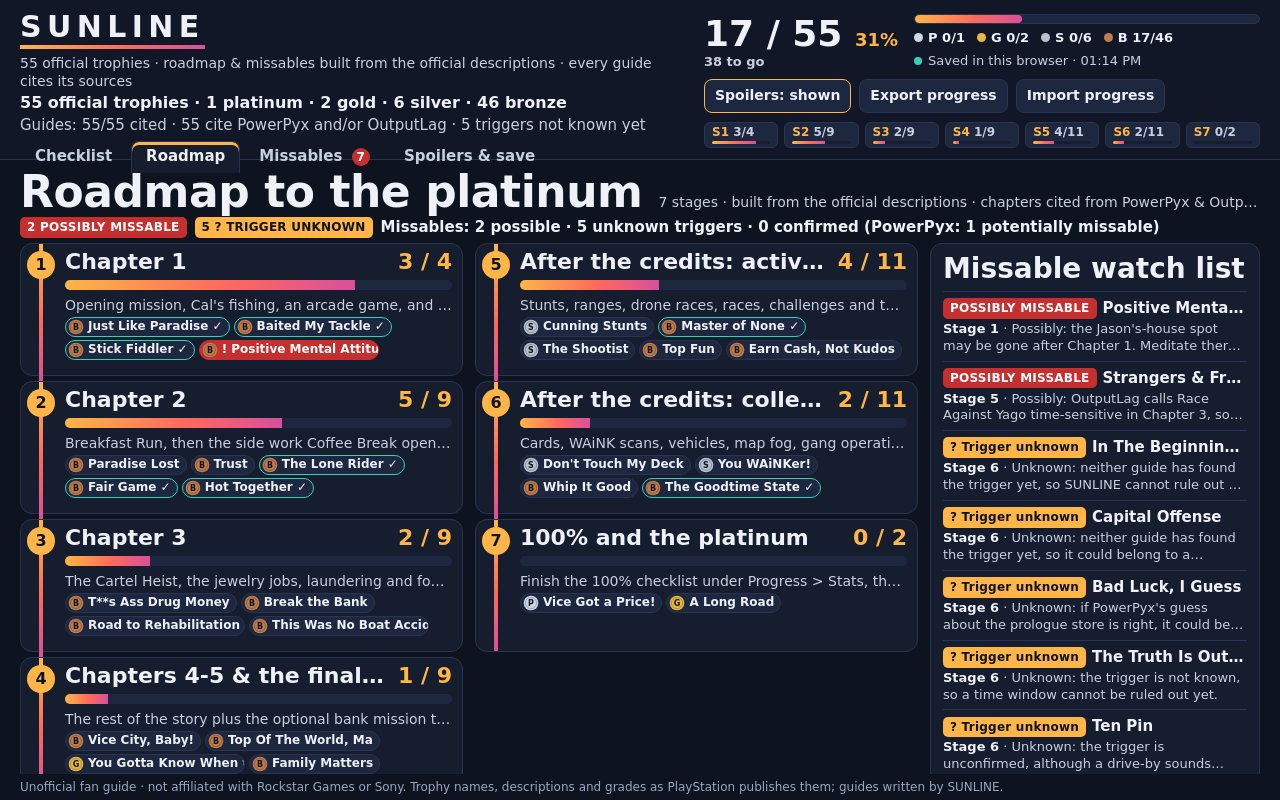
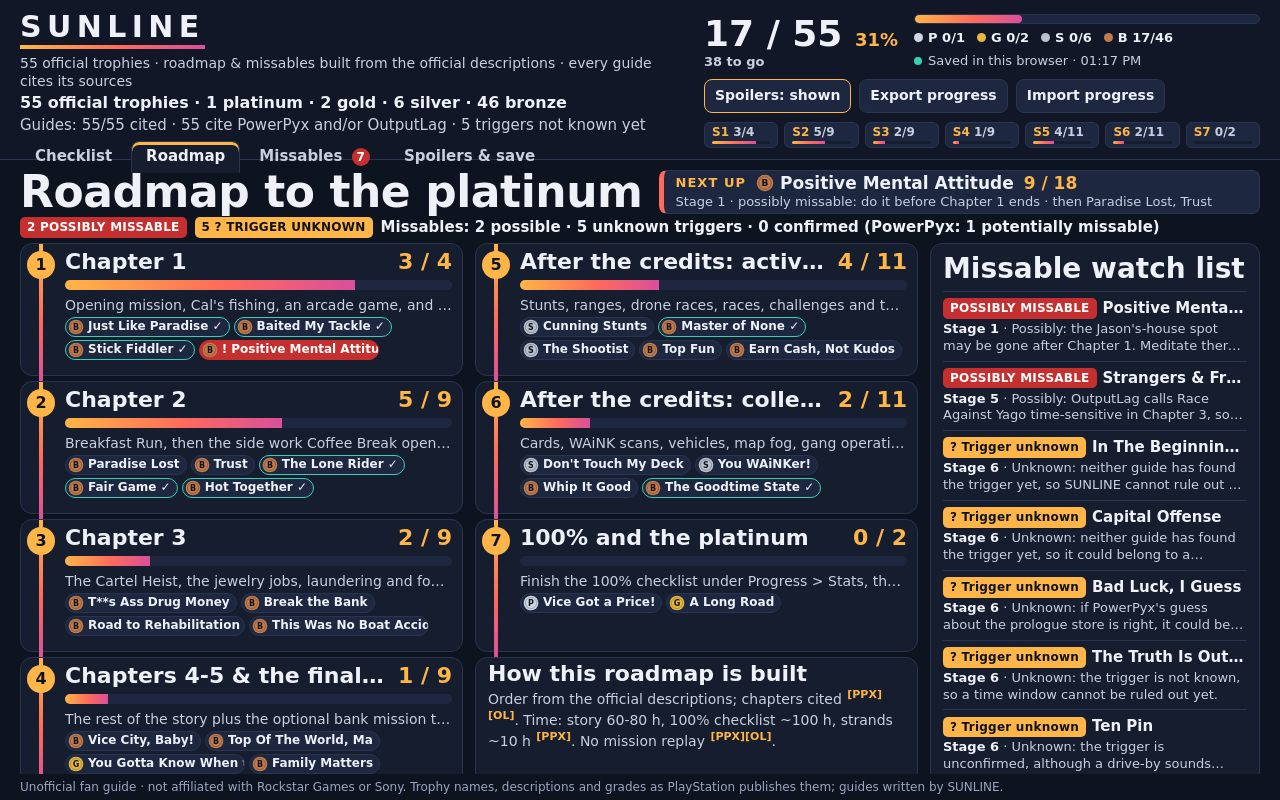
SUNLINE M2h: 'Next up' card beside the roadmap title (first stage with work left; possibly-missable first, then counters under way) and a cited 'How this roadmap is built' card with PowerPyx's hour estimates; shot tool drops below q85 only to stay under the gate; shots re-taken

Changed region(s): [[0.5, 0.1875, 1.0, 0.2812], [0.375, 0.8125, 0.7188, 0.9375]]

diff --git a/app/js/views/roadmap-view.js b/app/js/views/roadmap-view.js
@@ -1,5 +1,5 @@
 // Roadmap view: 7 stage cards on the sun-line spine with progress and cites, the missable watch list, and the Missables page.
-import { escapeHtml } from "../trophy-data.js";
+import { escapeHtml, formatAmount } from "../trophy-data.js";
 import { maskedName, isSpoilerMasked } from "../spoiler-rule.js";
 import { medalSvg, missableFlagHtml } from "./checklist-view.js";
 
@@ -7,10 +7,54 @@ export function renderRoadmap(stages, progress) {
   const flagged = stages.flatMap((s) => s.trophies).filter((t) => t.missable);
   const cards = stages.map((s) => stageCardHtml(s, progress)).join("");
   document.getElementById("roadmap").innerHTML =
-    `<div class="road-head"><h2 class="banner-title">Roadmap to the platinum</h2>` +
-    `<p class="road-sub">7 stages · built from the official descriptions · chapters cited from PowerPyx &amp; OutputLag</p></div>` +
+    `<div class="road-head"><h2 class="banner-title">Roadmap to the platinum</h2>${nextUpHtml(stages, progress)}</div>` +
     `<p class="missables-line">${missablesSummaryHtml(flagged)}<span>${escapeHtml(context.missables)}</span></p>` +
-    `<div class="road-grid"><div class="stages">${cards}</div>${watchListHtml(flagged, stages, progress)}</div>`;
+    `<div class="road-grid"><div class="stages">${cards}${methodCardHtml()}</div>` +
+    `${watchListHtml(flagged, stages, progress)}</div>`;
+}
+
+// "Next up": the first roadmap stage with work left; inside it a possibly-missable trophy comes first, then a
+// counter already under way, then roadmap order. Two more follow as "then".
+export function pickNextUp(stages, progress) {
+  const rank = (t) => (t.missable === "possible" ? 0 : progress.counters[t.id] ? 1 : 2);
+  const open = stages.flatMap((s) =>
+    s.trophies.filter((t) => !progress.earned[t.id] && t.grade !== "platinum").map((t, i) => ({ t, s, i })),
+  );
+  if (!open.length) return [];
+  const first = open[0].s.n;
+  const head = open.filter((o) => o.s.n === first).sort((a, b) => rank(a.t) - rank(b.t) || a.i - b.i);
+  return [...head, ...open.filter((o) => o.s.n !== first)].slice(0, 3);
+}
+
+function nextUpHtml(stages, progress) {
+  const [pick, ...then] = pickNextUp(stages, progress);
+  if (!pick) return `<div class="next-up"><span class="next-label">Next up</span><b>Only the platinum is left.</b></div>`;
+  const t = pick.t;
+  const value = progress.counters[t.id];
+  const why =
+    t.missable === "possible"
+      ? `possibly missable: do it before ${escapeHtml(pick.s.title)} ends`
+      : value
+        ? "under way: finish what you started"
+        : escapeHtml(pick.s.title);
+  const count = t.target ? ` · <b class="num">${formatAmount(value || 0, t.unit)} / ${formatAmount(t.target, t.unit)}</b>` : "";
+  const thenText = then.map((o) => escapeHtml(isSpoilerMasked(o.t, progress) ? "a story trophy" : o.t.name)).join(", ");
+  return (
+    `<div class="next-up" aria-label="Next up"><span class="next-label">Next up</span>` +
+    `<a class="next-name" href="#/checklist?f=all&amp;t=${t.id}">${medalSvg(t.grade, 18)}${escapeHtml(maskedName(t, progress))}</a>` +
+    `<span class="next-why">${count.slice(3)}</span>` +
+    `<span class="next-then">Stage ${pick.s.n} · ${why}${thenText ? ` · then ${thenText}` : ""}</span></div>`
+  );
+}
+
+// Fills the free grid slot under stage 7: how the stages were put together, with PowerPyx's own hour estimates.
+function methodCardHtml() {
+  return (
+    `<article class="stage-card method-card" aria-label="How this roadmap is built"><h3 class="stage-title">How this roadmap is built</h3>` +
+    `<p>Order from the official descriptions; chapters cited <sup class="cite-mark">[PPX][OL]</sup>. ` +
+    `Time: story 60-80 h, 100% checklist ~100 h, strands ~10 h <sup class="cite-mark">[PPX]</sup>. ` +
+    `No mission replay <sup class="cite-mark">[PPX][OL]</sup>.</p></article>`
+  );
 }
 
 let context = { missables: "", sources: {} };

diff --git a/app/css/sunline.css b/app/css/sunline.css
@@ -487,6 +487,28 @@ body[data-route="roadmap"] .view, body[data-route="missables"] .view { grid-temp
 
 .road-sub { margin: 0; font-size: 14px; color: var(--desc); flex: 1; min-width: 0; white-space: nowrap; overflow: hidden; text-overflow: ellipsis; }
 
+/* "Next up": one compact card beside the roadmap title, with the sun line on its left edge. */
+.next-up { flex: 1; min-width: 0; align-self: center; display: flex; flex-wrap: wrap; align-items: center; gap: 0 10px;
+  padding: 1px 12px 2px; line-height: 1.3; border: 1px solid var(--line); border-left: 5px solid #ff6a5c; border-radius: var(--r-ctl);
+  background: var(--raised); font-size: 14px; color: var(--desc); }
+
+.next-label { font-size: 13px; font-weight: 800; letter-spacing: 0.08em; text-transform: uppercase; color: var(--amber); }
+
+.next-name { display: inline-flex; align-items: center; gap: 6px; font-size: 17px; font-weight: 800; color: var(--text);
+  text-decoration: none; }
+
+.next-why b { color: var(--amber); }
+
+.next-then { flex-basis: 100%; font-size: 13px; white-space: nowrap; overflow: hidden; text-overflow: ellipsis; }
+
+.next-why { font-size: 17px; font-weight: 800; }
+
+.stage-card.method-card { padding-left: 12px; }
+
+.stage-card.method-card::before { display: none; }
+
+.stage-card.method-card p { margin: 2px 0 4px; font-size: 14px; line-height: 1.35; color: var(--desc); }
+
 #missables .road-head { flex-wrap: wrap; }
 
 #missables .road-sub { white-space: normal; font-size: 15px; }
